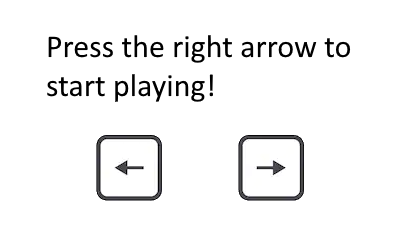
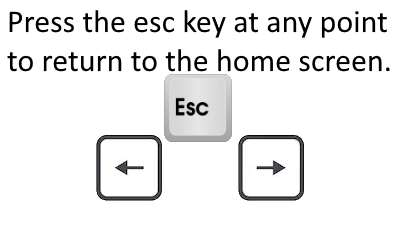
updated tutorial

Changed region(s): [[0.0, 0.0307, 0.99, 0.6447]]

diff --git a/src/game/ClapperRailView.java b/src/game/ClapperRailView.java
@@ -130,6 +130,7 @@ public class ClapperRailView extends GameView{
 		fnameMap.put("tutorialimage6.png", ClapperRailAsset.TUTORIALIMAGE6);
 		fnameMap.put("tutorialimage7.png", ClapperRailAsset.TUTORIALIMAGE7);
 		fnameMap.put("tutorialimage8.png", ClapperRailAsset.TUTORIALIMAGE8);
+		fnameMap.put("tutorialimage9.png", ClapperRailAsset.TUTORIALIMAGE9);
 		fnameMap.put("questionmark.png", ClapperRailAsset.QUESTIONBLOCK);
 		fnameMap.put("clapper.png", ClapperRailAsset.CLAPPERBIRD);
 	}
@@ -203,6 +204,9 @@ public class ClapperRailView extends GameView{
 				break;
 			case 8:
 				g.drawImage((BufferedImage)objectMap.get(ClapperRailAsset.TUTORIALIMAGE8), 100, 100, 400,228,null);
+				break;
+			case 9:
+				g.drawImage((BufferedImage)objectMap.get(ClapperRailAsset.TUTORIALIMAGE9), 100, 100, 400,228,null);
 				break;
 		}
 	}

diff --git a/src/game/Controller.java b/src/game/Controller.java
@@ -391,7 +391,7 @@ public class Controller implements KeyListener {
 			switch (key) {
 			case KeyEvent.VK_RIGHT:
 				if(CRV.getTutorialMode()){
-					if(CRV.getTutImageNum() == 7){
+					if(CRV.getTutImageNum() == 9){
 						CRV.setTutorialMode(false);
 						ClapperRailGS.setStart(false);
 						break;

diff --git a/src/game/ClapperRailAsset.java b/src/game/ClapperRailAsset.java
@@ -16,7 +16,8 @@ public enum ClapperRailAsset {
 	TUTORIALIMAGE5("TUTORIALIMAGE5"),
 	TUTORIALIMAGE6("TUTORIALIMAGE6"),
 	TUTORIALIMAGE7("TUTORIALIMAGE7"),
-	TUTORIALIMAGE8("TUTORIALIMAGE8");
+	TUTORIALIMAGE8("TUTORIALIMAGE8"),
+	TUTORIALIMAGE9("TUTORIALIMAGE9");
 	
 	
 
